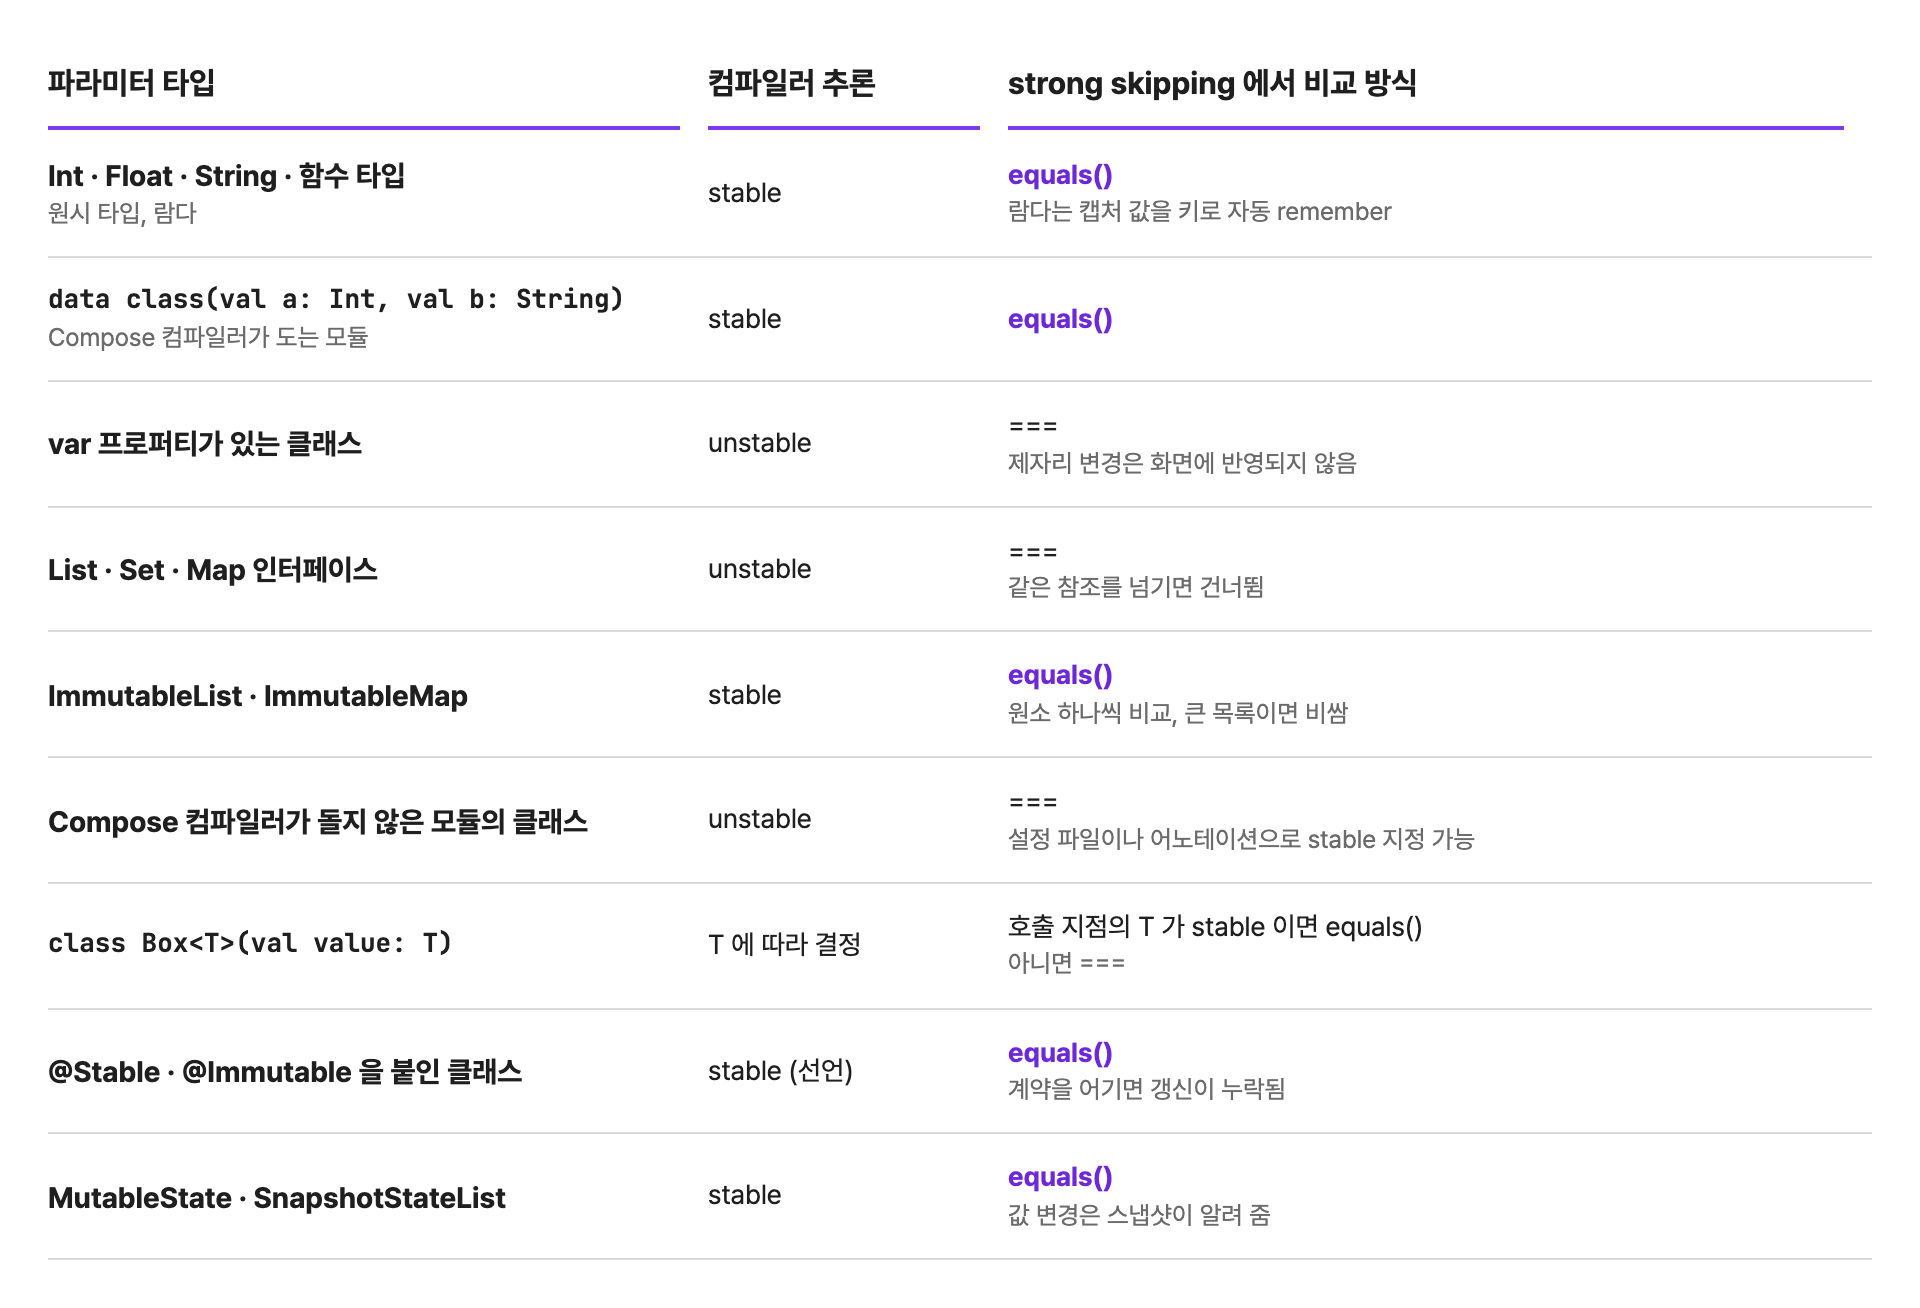
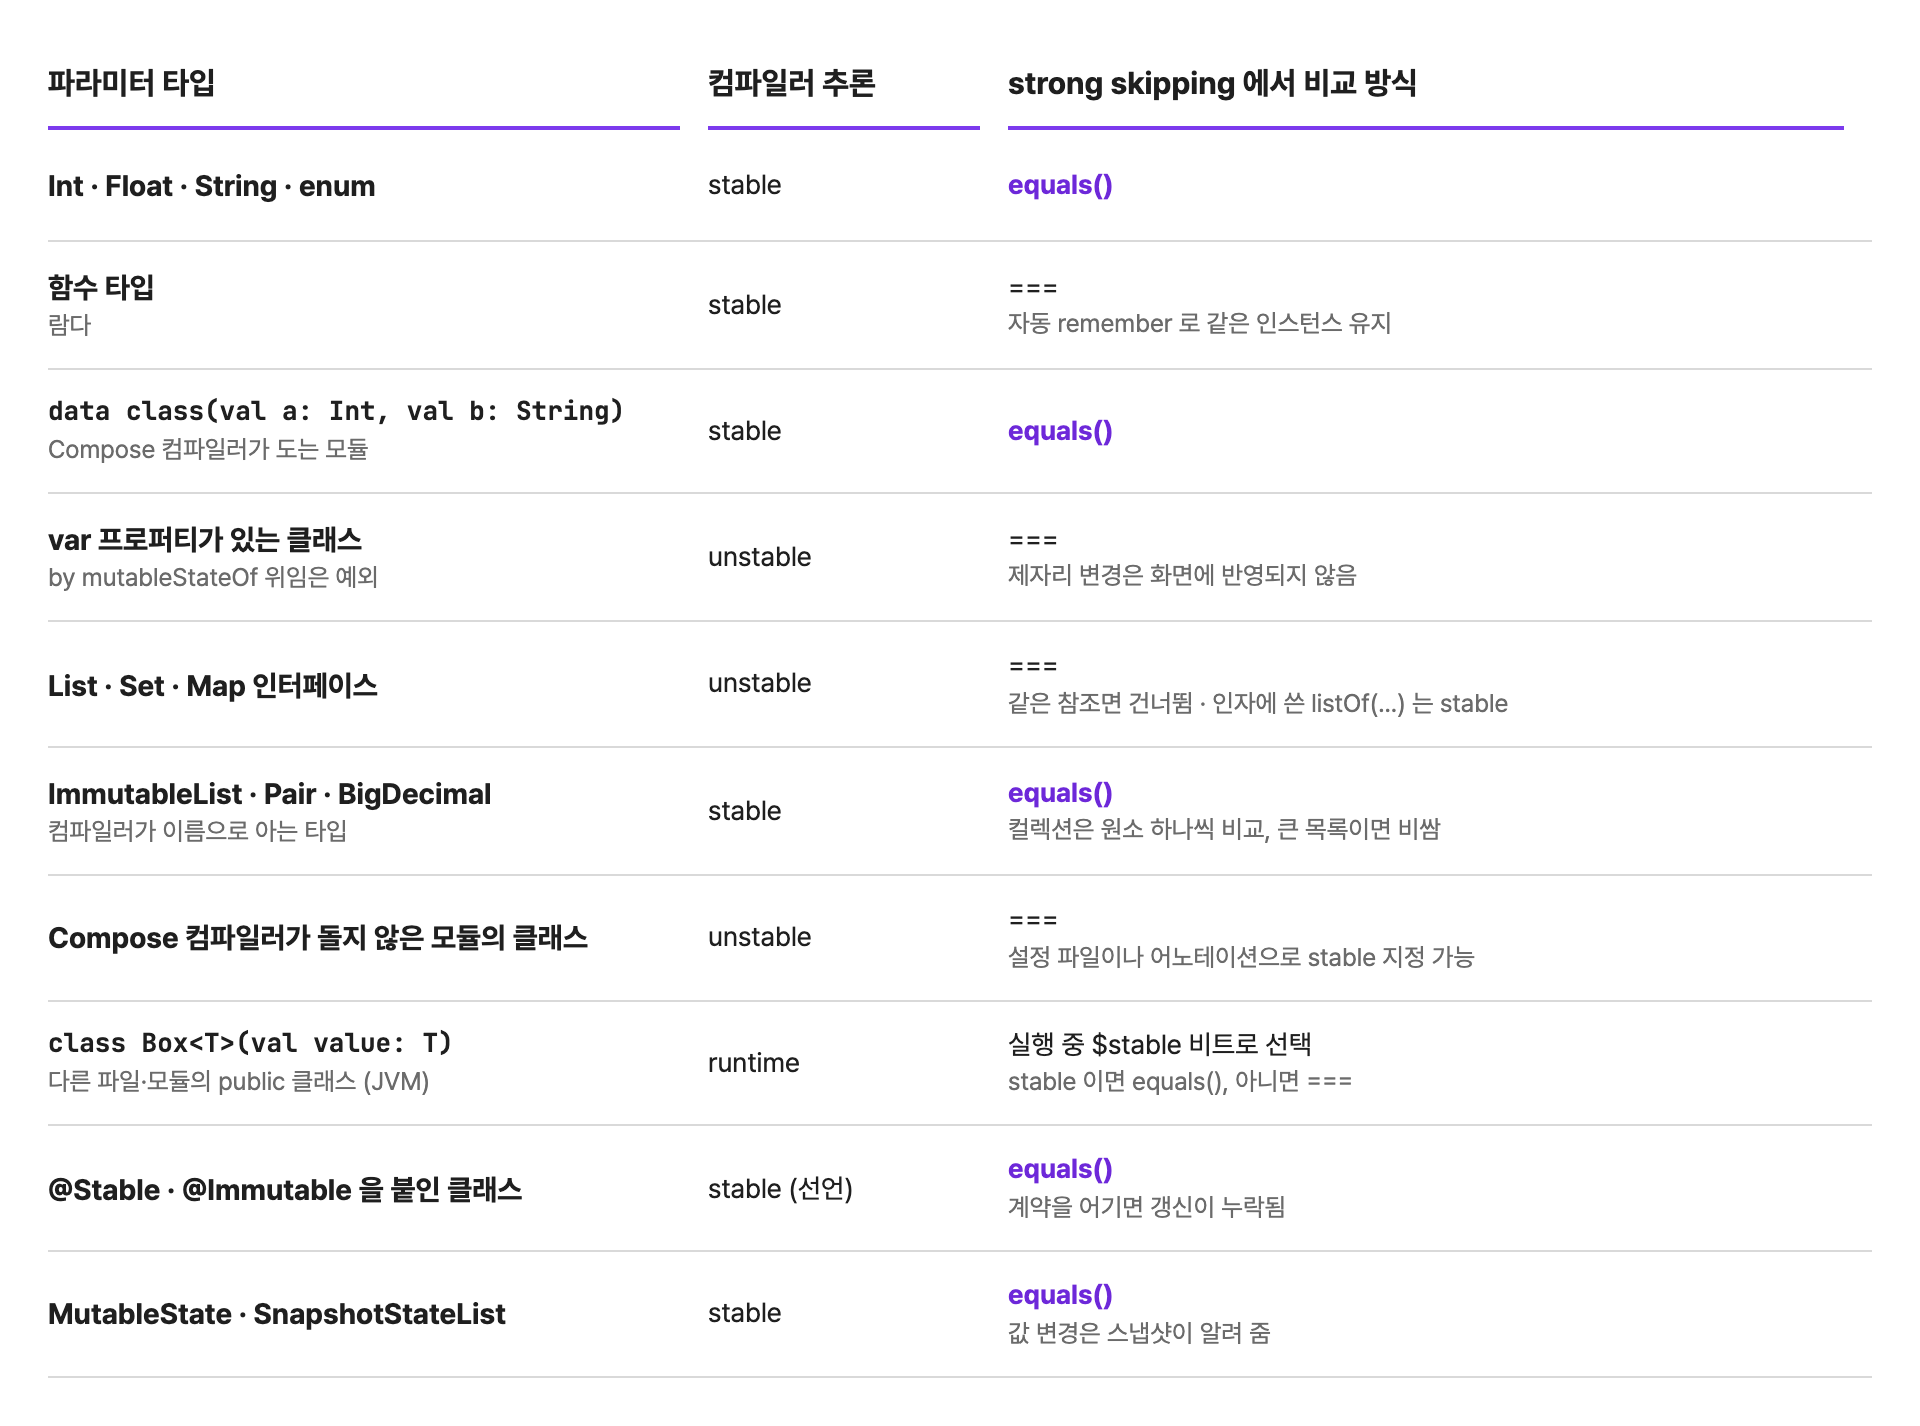
docs: Compose stability 글을 컴파일러 소스 기준으로 보강

diff --git a/src/content/posts/compose-recomposition-stability.md b/src/content/posts/compose-recomposition-stability.md
@@ -92,7 +92,7 @@ fun Header(title: String, $composer: Composer, $changed: Int) {
 
 `$composer.changed(title)` 은 slot table 에 저장해 둔 지난 값과 `equals()` 로 비교하고, 다르면 새 값을 저장합니다. 마지막 `updateScope` 가 앞에서 말한 "다시 실행하려면 이렇게 부르라"는 등록입니다.
 
-여기까지 보면 역할 분담이 분명합니다. **어떤 파라미터를 어떤 방식으로 비교할지는 컴파일러가 빌드 시점에 정해서 코드로 박아 넣습니다.** 런타임은 그 코드를 실행하며 slot table 의 값과 비교하고, 스냅샷 읽기를 추적해 어떤 범위를 무효화할지 정합니다. 런타임이 실행 중에 클래스를 들여다보고 stable 인지 판단하는 일은 없습니다. 예외는 제네릭인데, 아래에서 따로 다룹니다.
+여기까지 보면 역할 분담이 분명합니다. **stability 는 컴파일러가 빌드 시점에 추론하고, 그 결과에 맞는 비교 코드를 생성합니다.** 런타임은 그 코드를 실행하며 slot table 의 값과 비교하고, 스냅샷 읽기를 추적해 어떤 범위를 무효화할지 정합니다. 런타임이 리플렉션으로 클래스 구조를 들여다보는 일은 없습니다. 다만 빌드 시점에 결론을 낼 수 없는 타입이 있어서, 그때는 컴파일러가 "실행할 때 이 값을 읽어 결정하라"는 코드를 대신 넣습니다. 이 경우는 아래에서 따로 다룹니다.
 
 ## 컴파일러가 stability 를 추론하는 규칙
 
@@ -102,27 +102,38 @@ fun Header(title: String, $composer: Composer, $changed: Int) {
 
 - `Int`, `Long`, `Float`, `Boolean` 같은 원시 타입과 `String`
 - 함수 타입. 람다는 언제나 stable 로 취급됩니다.
+- enum 클래스와 `object`
 - `MutableState`, `SnapshotStateList`, `SnapshotStateMap` 처럼 변경을 스냅샷으로 알리는 타입
-- 모든 프로퍼티가 `val` 이고 그 타입이 전부 stable 인 클래스. 같은 모듈이든 다른 모듈이든 Compose 컴파일러가 처리한 모듈이어야 합니다.
-- kotlinx.collections.immutable 의 `ImmutableList`, `ImmutableMap` 같은 타입이나 `Pair` 처럼 컴파일러가 이름으로 아는 일부 외부 타입
+- 모든 프로퍼티가 `val` 이고 그 타입이 전부 stable 인 final 클래스. 같은 모듈이든 다른 모듈이든 Compose 컴파일러가 처리한 모듈이어야 합니다.
+- 컴파일러가 이름으로 아는 외부 타입. 컴파일러 소스의 `KnownStableConstructs` 에 목록이 있고, `Pair`, `Triple`, `Result`, `ClosedRange`, kotlinx.collections.immutable 의 `ImmutableList`·`PersistentList` 계열, Guava 의 `ImmutableList`·`ImmutableMap`, Dagger 의 `Lazy`, `BigInteger`, `BigDecimal`, `Locale` 이 들어 있습니다. 제네릭 타입은 타입 인자도 stable 이어야 해서 `Pair<String, Int>` 는 stable 이고 `Pair<String, MutableList<Int>>` 는 아닙니다.
 - `@Stable`, `@Immutable` 을 붙이거나 stability 설정 파일에 적은 타입
+
+같은 파일에는 `listOf`, `setOf`, `mapOf`, `emptyList`, `persistentListOf` 같은 함수 목록도 있습니다. 파라미터 타입이 `List` 라도 인자 자리에 `listOf("a", "b")` 를 직접 쓰면 그 식의 결과는 stable 로 봅니다.
 
 unstable 이 되는 경우도 규칙이 단순합니다.
 
-- `var` 프로퍼티가 하나라도 있으면 unstable 입니다. `var` 를 바꿔도 Compose 에 알릴 방법이 없기 때문입니다.
+- `var` 프로퍼티가 하나라도 있으면 unstable 입니다. `var` 를 바꿔도 Compose 에 알릴 방법이 없기 때문입니다. 위임 프로퍼티는 예외라서 `var name by mutableStateOf("")` 는 이 규칙에 걸리지 않습니다.
 - `val` 이어도 그 타입이 unstable 이면 클래스 전체가 unstable 입니다.
 - `List`, `Set`, `Map` 은 인터페이스라 실제 구현이 `ArrayList` 일 수도 있어서 unstable 입니다. 원소가 stable 이어도 마찬가지입니다.
 - Compose 컴파일러가 돌지 않은 모듈의 클래스는 unstable 입니다.
 
 마지막 규칙이 멀티 모듈 프로젝트에서 자주 걸립니다. 컴파일러는 클래스를 처리할 때 추론 결과를 `@StabilityInferred` 어노테이션과 `$stable` 이라는 정적 필드로 남깁니다. 다른 모듈이 그 클래스를 쓸 때는 소스를 다시 분석하지 않고 이 기록을 읽습니다. 순수 Kotlin 으로 빌드한 `domain` 모듈의 `data class` 에는 이 기록이 없으니, UI 모듈의 컴파일러는 안을 들여다보지 못하고 unstable 로 처리합니다. 필드가 전부 `val String` 이어도 그렇습니다.
 
-### 제네릭은 런타임에 결정됩니다
+### 빌드 시점에 정해지지 않는 경우
+
+컴파일러 소스의 `Stability` 는 `Certain`(확실히 stable 또는 unstable), `Runtime`, `Unknown`, `Parameter`, 그리고 이들을 묶은 `Combined` 로 나뉩니다. 뒤의 셋이 빌드 시점에 결론이 나지 않은 상태이고, 컴파일러 리포트에는 `stable` 도 `unstable` 도 아닌 `runtime` 으로 찍힙니다.
+
+- **`Runtime`**: 다른 모듈에서 온 클래스는 소스를 다시 분석하지 않고, 실행할 때 그 클래스의 `$stable` 필드를 읽는 코드를 넣습니다. JVM 에서는 같은 모듈이라도 다른 파일에 있는 `public`, `internal` 클래스면 이 방식을 씁니다.
+- **`Parameter`**: 제네릭 타입 파라미터 `T` 입니다.
+- **`Unknown`**: 인터페이스와 `open`, `abstract` 클래스입니다. 실제로 어떤 구현이 올지 모르기 때문입니다.
 
 ```kotlin
 class Box<T>(val value: T)
 ```
 
-`Box<String>` 은 stable 이고 `Box<MutableList<String>>` 는 unstable 입니다. 클래스 선언만으로는 정할 수 없으니 컴파일러는 `$stable` 필드에 "타입 파라미터 몇 번째의 stability 에 따라 결정된다"는 비트를 기록합니다. 호출 지점에서 타입 인자가 확정되면 그 정보로 비교 방식을 고르고, 그래도 정해지지 않으면 런타임에 `$stable` 값을 읽어 판단합니다. 컴파일러 리포트에서 이런 클래스는 `stable` 도 `unstable` 도 아닌 `runtime` 으로 표시됩니다.
+`Box<String>` 은 stable 이고 `Box<MutableList<String>>` 는 unstable 입니다. 컴파일러는 `@StabilityInferred` 의 `parameters` 값에 "몇 번째 타입 파라미터가 stability 에 영향을 주는가"를 비트로 기록합니다. 호출 지점에서 타입 인자가 정해지면 `Box` 자신의 `$stable` 과 타입 인자의 stability 를 합쳐 계산합니다.
+
+계산한 결과는 앞에서 본 `$changed` 로 넘어갑니다. `$changed` 는 파라미터마다 3비트를 쓰는데, 아래 두 비트가 같다·다르다·상수·모름을 나타내고 위의 한 비트가 unstable 여부를 나타냅니다. 호출하는 쪽이 `$stable` 값을 읽어 이 비트를 채우면, 호출받는 쪽은 stability 가 불확실한 파라미터를 비교할 때 이 비트를 보고 `changed()`(`equals()`)를 쓸지 `changedInstance()`(`===`)를 쓸지 고릅니다. 실행 중에 정해지는 것은 이 비트 하나이고, 비교 코드 두 갈래는 컴파일러가 미리 만들어 둡니다.
 
 추론 결과는 직접 확인할 수 있습니다.
 
@@ -163,12 +174,13 @@ Compose 컴파일러는 Kotlin 2.0 부터 Kotlin 저장소로 옮겨 와 Kotlin 
 
 - stable 파라미터: `equals()` 로 비교
 - unstable 파라미터: `===` 인스턴스 비교
+- 함수 타입 파라미터: stable 이지만 `===` 로 비교. 람다의 `equals()` 는 원래 인스턴스 비교라 결과는 같고, 아래의 자동 remember 덕분에 같은 인스턴스가 유지됩니다.
 
 **composable 안의 람다를 자동으로 remember 합니다.** 컴파일러가 람다를 `remember` 로 감싸고 캡처한 값을 키로 씁니다. 키 비교도 같은 규칙이라 unstable 캡처는 `===`, stable 캡처는 `equals()` 로 봅니다. 예전에 unstable 객체를 캡처한 `onClick = { viewModel.onClick(item) }` 이 재구성마다 새 람다가 되어 자식을 매번 다시 실행시키던 문제가 이걸로 사라졌습니다.
 
 예외가 필요하면 두 어노테이션을 씁니다. 건너뛰면 안 되는 컴포저블에는 `@NonSkippableComposable`, 기억하면 안 되는 람다에는 `@DontMemoize` 를 붙입니다. 모드 자체를 끄려면 `featureFlags` 에 `ComposeFeatureFlag.StrongSkipping.disabled()` 를 넣습니다.
 
-![원시 타입과 String 과 함수 타입, Compose 모듈의 val data class, ImmutableList, @Stable 과 @Immutable 클래스, MutableState 는 stable 로 추론되어 equals 로 비교되고, var 프로퍼티 클래스, List 인터페이스, Compose 컴파일러가 돌지 않은 모듈의 클래스는 unstable 로 추론되어 === 로 비교되며, 제네릭 클래스는 타입 인자에 따라 결정되는 표](@/assets/images/compose-stability-matrix.png)
+![원시 타입과 String 과 enum, Compose 모듈의 val data class, ImmutableList 와 Pair 같은 컴파일러가 아는 타입, @Stable 과 @Immutable 클래스, MutableState 는 stable 로 추론되어 equals 로 비교되고, 람다는 stable 이지만 === 로 비교되며, var 프로퍼티 클래스, List 인터페이스, Compose 컴파일러가 돌지 않은 모듈의 클래스는 unstable 로 추론되어 === 로 비교되고, 제네릭 클래스와 다른 파일이나 모듈의 public 클래스는 runtime 으로 남아 실행 중 $stable 비트로 비교 방식이 정해지는 표](@/assets/images/compose-stability-matrix.png)
 
 ## 그래서 최적화 기준이 뒤집혔습니다
 
@@ -223,3 +235,7 @@ composeCompiler {
 - [Compose compiler options DSL (Kotlin)](https://kotlinlang.org/docs/compose-compiler-options.html)
 - [ComposeCompilerGradlePluginExtension (Kotlin Gradle plugin API)](https://kotlinlang.org/api/kotlin-gradle-plugin/compose-compiler-gradle-plugin/org.jetbrains.kotlin.compose.compiler.gradle/-compose-compiler-gradle-plugin-extension/)
 - [Compose Runtime release notes (Android Developers)](https://developer.android.com/jetpack/androidx/releases/compose-runtime)
+- [Stability.kt (JetBrains/kotlin, Compose compiler)](https://github.com/JetBrains/kotlin/blob/master/plugins/compose/compiler-hosted/src/main/java/androidx/compose/compiler/plugins/kotlin/analysis/Stability.kt)
+- [KnownStableConstructs.kt (JetBrains/kotlin, Compose compiler)](https://github.com/JetBrains/kotlin/blob/master/plugins/compose/compiler-hosted/src/main/java/androidx/compose/compiler/plugins/kotlin/analysis/KnownStableConstructs.kt)
+- [ClassStabilityTransformer.kt (JetBrains/kotlin, Compose compiler)](https://github.com/JetBrains/kotlin/blob/master/plugins/compose/compiler-hosted/src/main/java/androidx/compose/compiler/plugins/kotlin/lower/ClassStabilityTransformer.kt)
+- [ComposableFunctionBodyTransformer.kt (JetBrains/kotlin, Compose compiler)](https://github.com/JetBrains/kotlin/blob/master/plugins/compose/compiler-hosted/src/main/java/androidx/compose/compiler/plugins/kotlin/lower/ComposableFunctionBodyTransformer.kt)
